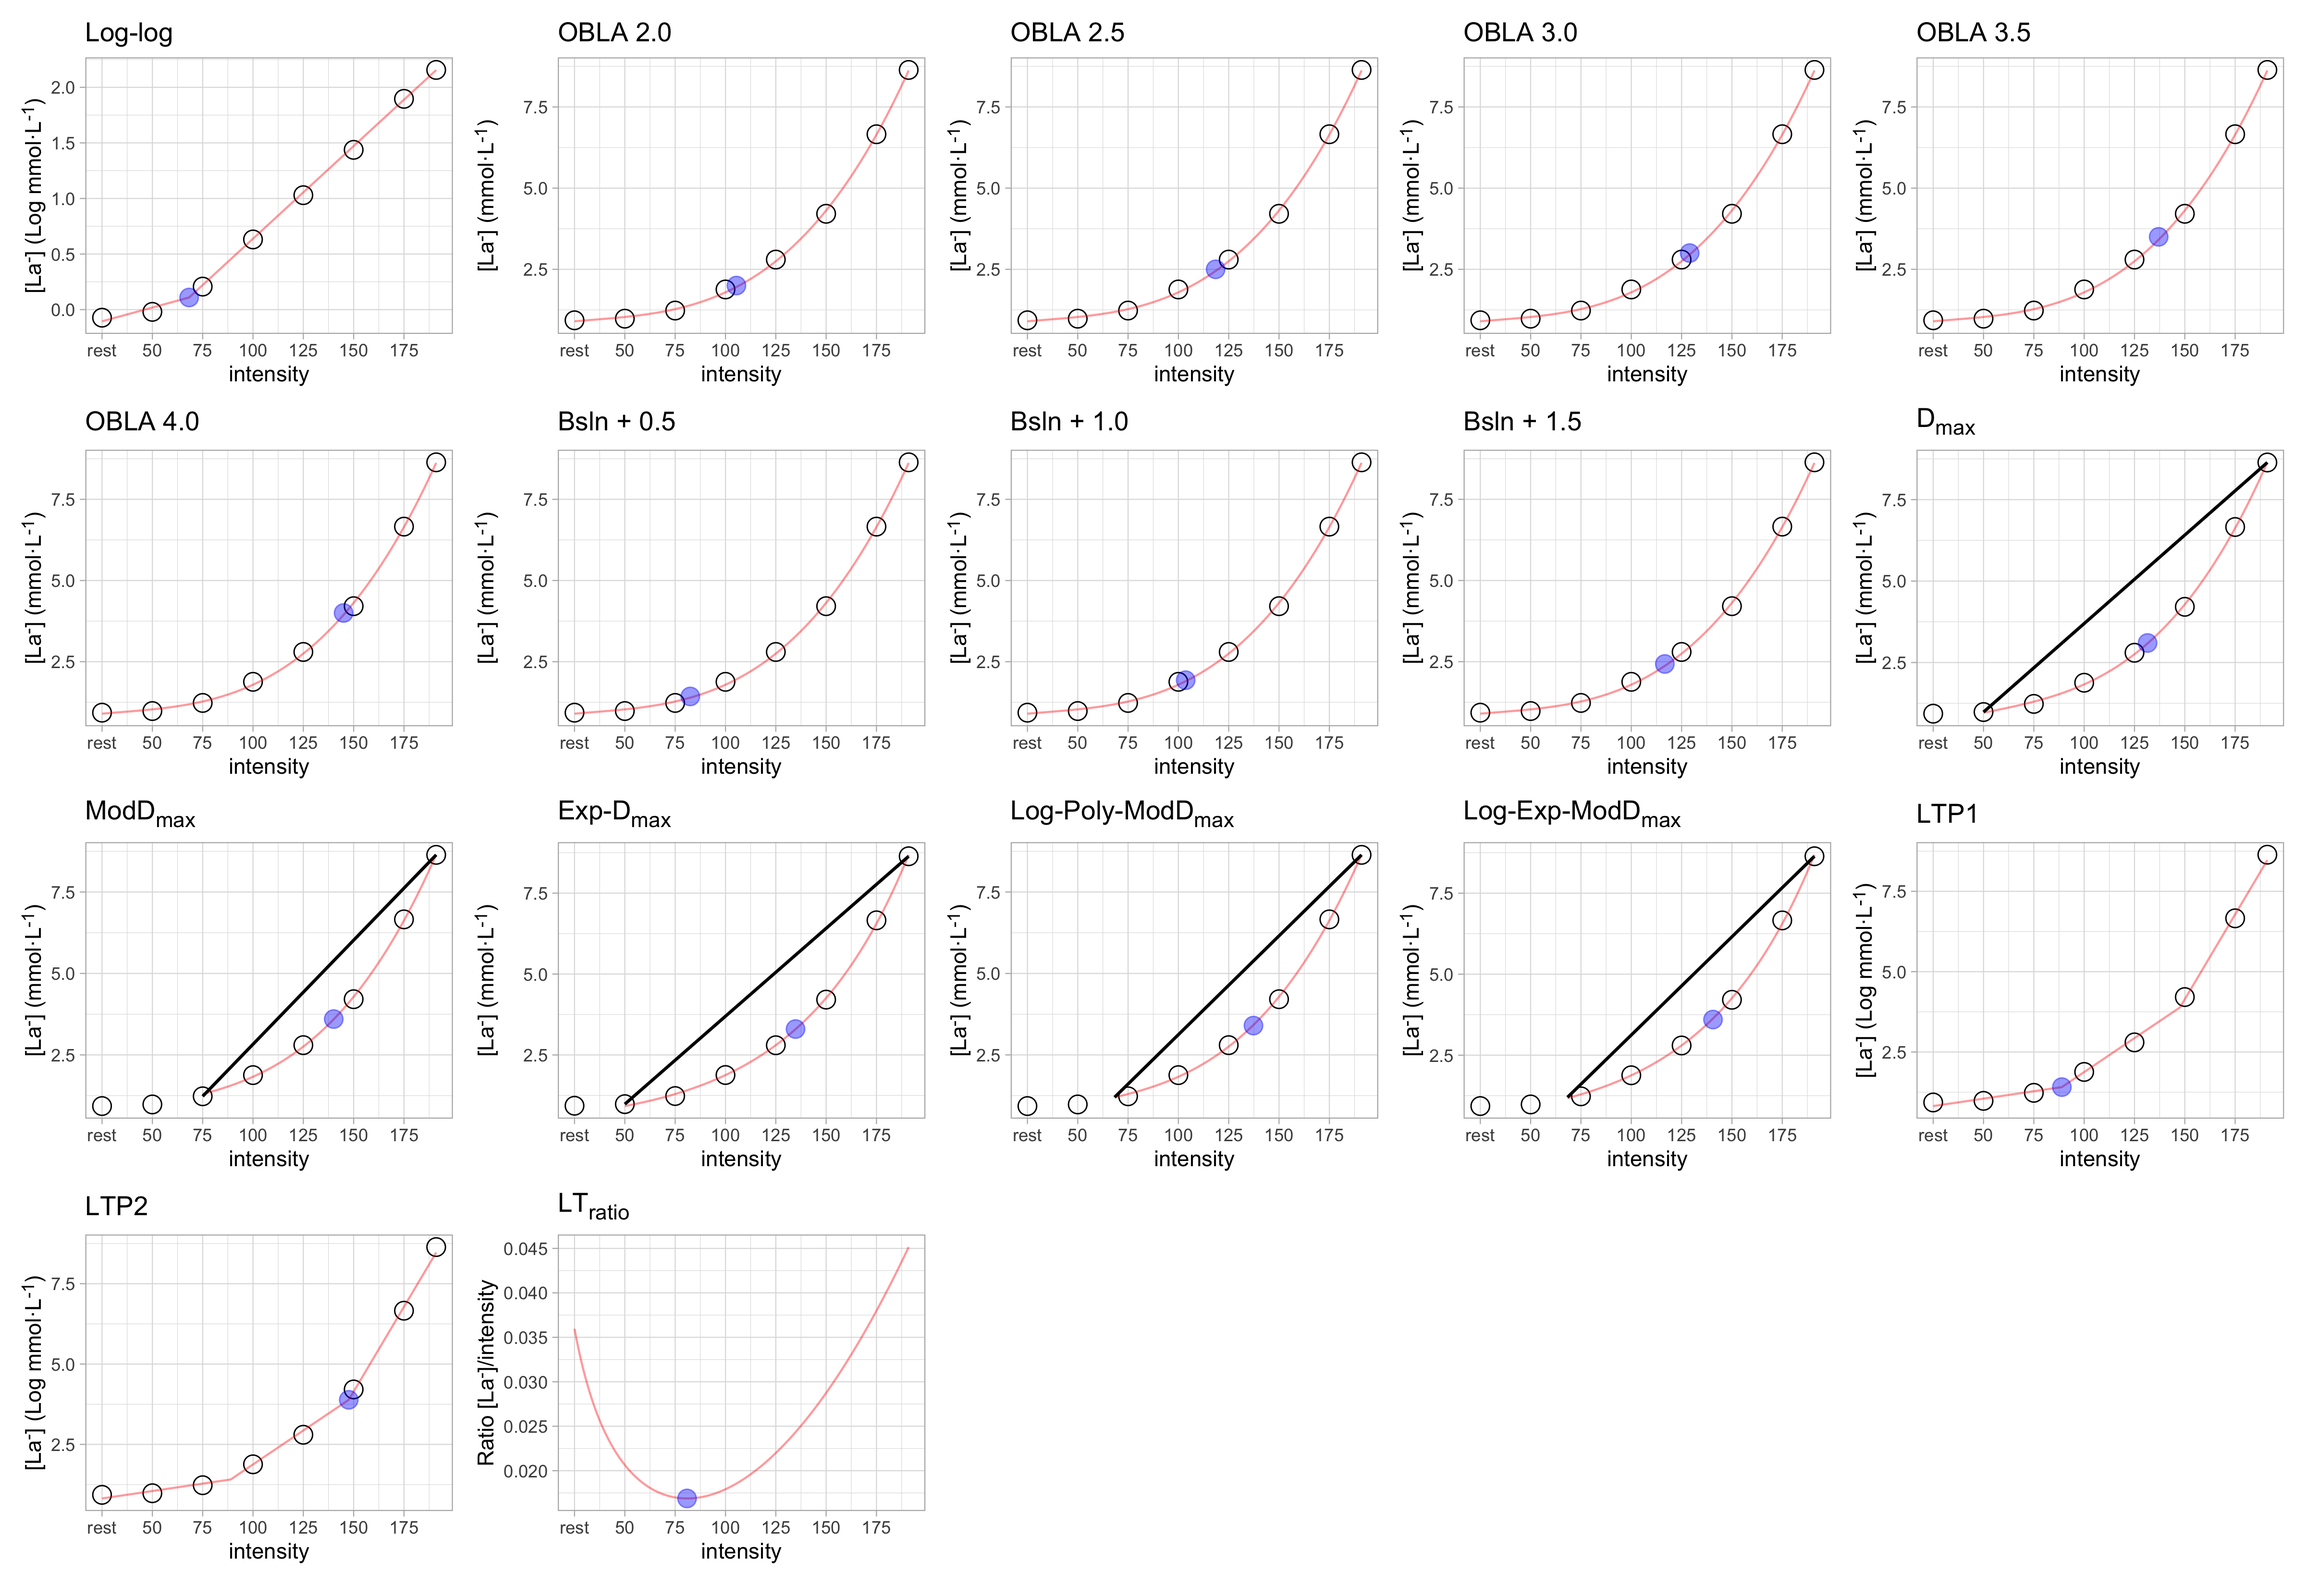
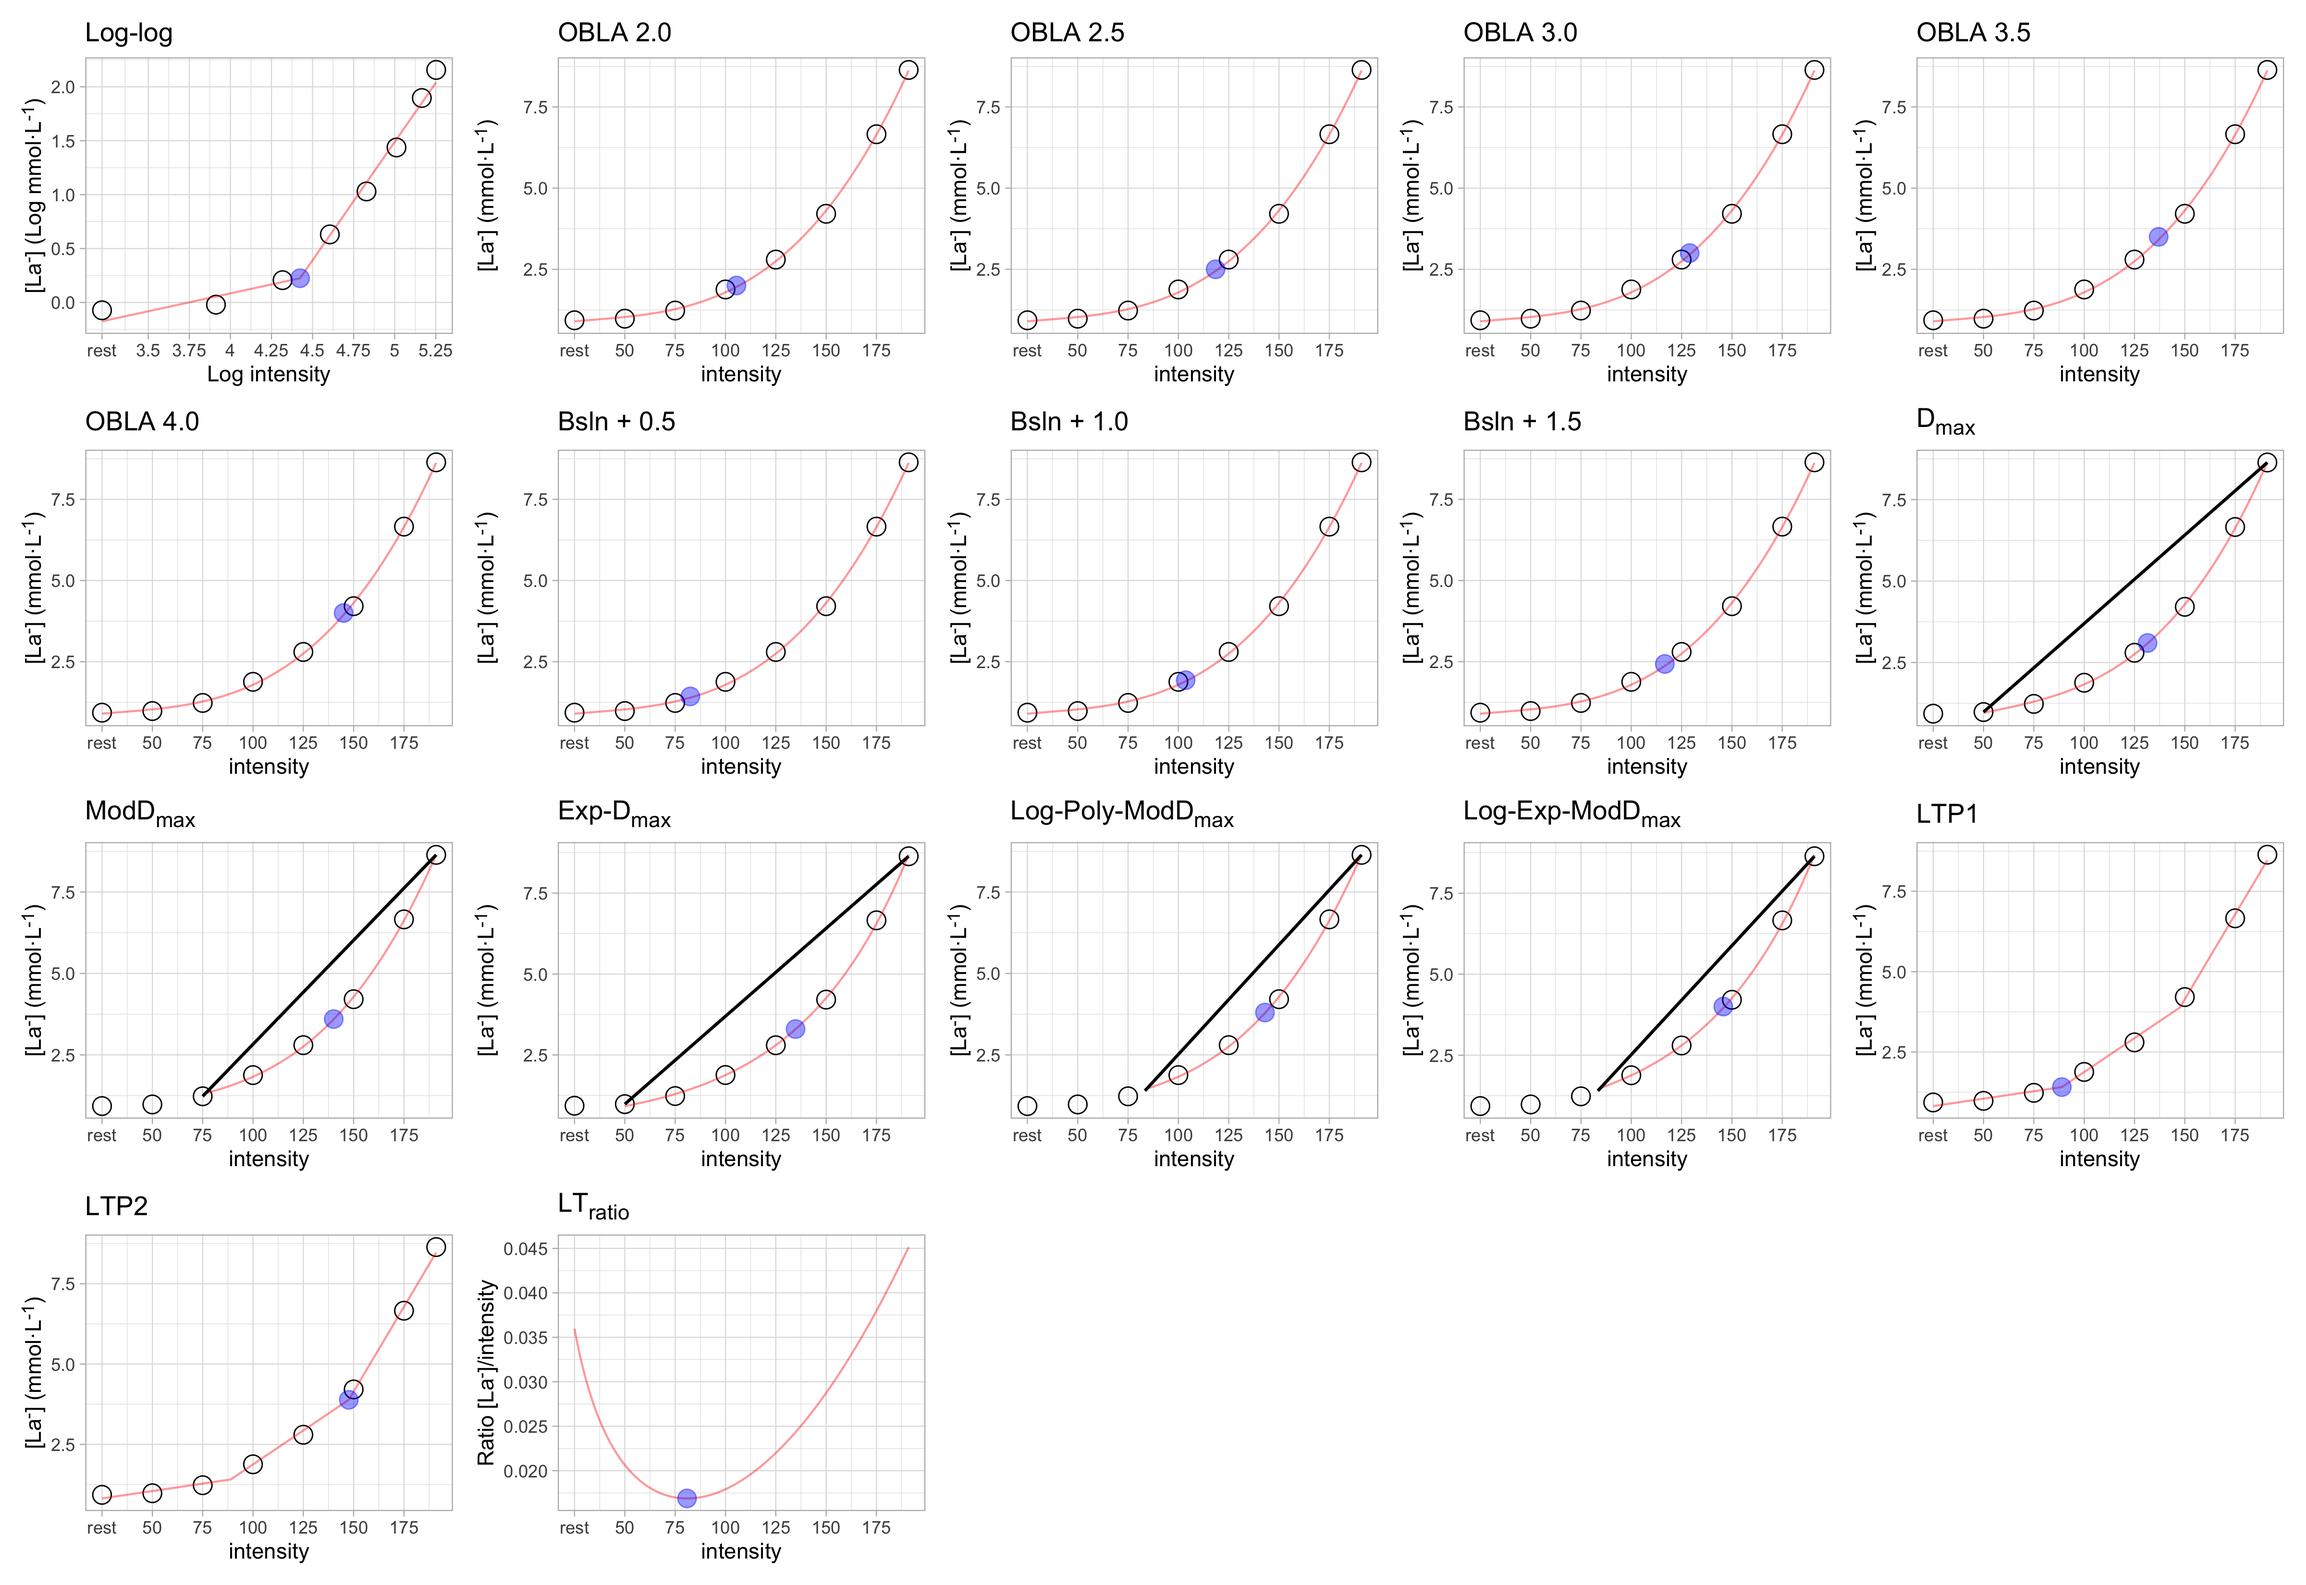
updated readme

diff --git a/README.md b/README.md
@@ -75,7 +75,7 @@ results_overall <- lactate_threshold(
     #> # A tibble: 17 × 7
     #>    method_category method           fitting   intensity lactate heart_rate plot 
     #>    <fct>           <fct>            <chr>         <dbl>   <dbl>      <dbl> <lis>
-    #>  1 Log-log         Log-log          3rd degr…      68.3    1.2         131 <gg> 
+    #>  1 Log-log         Log-log          3rd degr…      83.4    1.4         140 <gg> 
     #>  2 OBLA            OBLA 2.0         3rd degr…     105.     2           153 <gg> 
     #>  3 OBLA            OBLA 2.5         3rd degr…     118.     2.5         160 <gg> 
     #>  4 OBLA            OBLA 3.0         3rd degr…     129      3           167 <gg> 
@@ -87,8 +87,8 @@ results_overall <- lactate_threshold(
     #> 10 Dmax            Dmax             3rd degr…     132.     3.1         168 <gg> 
     #> 11 Dmax            ModDmax          3rd degr…     140.     3.6         173 <gg> 
     #> 12 Dmax            Exp-Dmax         Exponent…     135.     3.3         170 <gg> 
-    #> 13 Dmax            Log-Poly-ModDmax 3rd degr…     137.     3.4         172 <gg> 
-    #> 14 Dmax            Log-Exp-ModDmax  Exponent…     141.     3.6         174 <gg> 
+    #> 13 Dmax            Log-Poly-ModDmax 3rd degr…     143      3.8         175 <gg> 
+    #> 14 Dmax            Log-Exp-ModDmax  Exponent…     146.     4           177 <gg> 
     #> 15 LTP             LTP1             3rd degr…      88.9    1.5         143 <gg> 
     #> 16 LTP             LTP2             3rd degr…     148.     4.1         178 <gg> 
     #> 17 LTratio         LTratio          B-Spline…      71.2    1.2         132 <gg>
@@ -116,7 +116,7 @@ results_loglog <- lactate_threshold(
     #> # A tibble: 1 × 7
     #>   method_category method  fitting             intensity lactate heart_rate plot 
     #>   <fct>           <fct>   <chr>                   <dbl>   <dbl>      <dbl> <lis>
-    #> 1 Log-log         Log-log 3rd degree polynom…      68.3     1.2        131 <gg>
+    #> 1 Log-log         Log-log 3rd degree polynom…      83.4     1.4        140 <gg>
 
 <img src="man/figures/readme/README-unnamed-chunk-8-1.png" width="100%" style="display: block; margin: auto;" />
 
@@ -194,8 +194,8 @@ results_dmax <- lactate_threshold(
     #> 1 Dmax            Dmax             3rd degre…      132.     3.1        168 <gg> 
     #> 2 Dmax            ModDmax          3rd degre…      140.     3.6        173 <gg> 
     #> 3 Dmax            Exp-Dmax         Exponenti…      135.     3.3        170 <gg> 
-    #> 4 Dmax            Log-Poly-ModDmax 3rd degre…      137.     3.4        172 <gg> 
-    #> 5 Dmax            Log-Exp-ModDmax  Exponenti…      141.     3.6        174 <gg>
+    #> 4 Dmax            Log-Poly-ModDmax 3rd degre…      143      3.8        175 <gg> 
+    #> 5 Dmax            Log-Exp-ModDmax  Exponenti…      146.     4          177 <gg>
 
 <img src="man/figures/readme/README-unnamed-chunk-17-1.png" width="100%" style="display: block; margin: auto;" />
 
@@ -248,6 +248,6 @@ results_ltratio <- lactate_threshold(
 
 ## Related work
 
--   [lactate-R](http://www.uiginn.com/lactate/lactate-r.html)
--   [cycleRtools](https://github.com/cran/cycleRtools)
--   [exPhysR](https://github.com/dhammarstrom/exPhysR)
+- [lactate-R](http://www.uiginn.com/lactate/lactate-r.html)
+- [cycleRtools](https://github.com/cran/cycleRtools)
+- [exPhysR](https://github.com/dhammarstrom/exPhysR)
